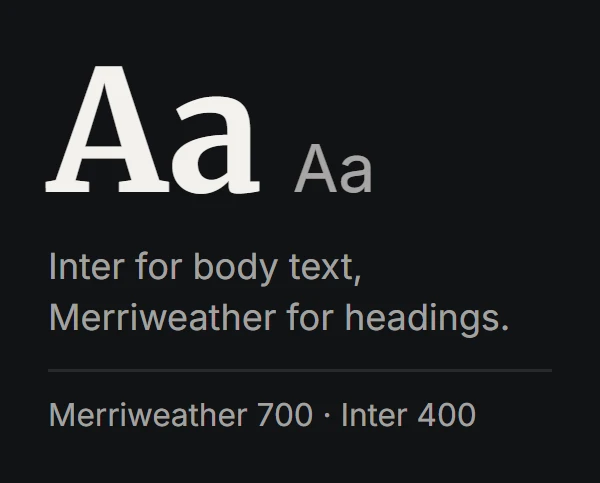
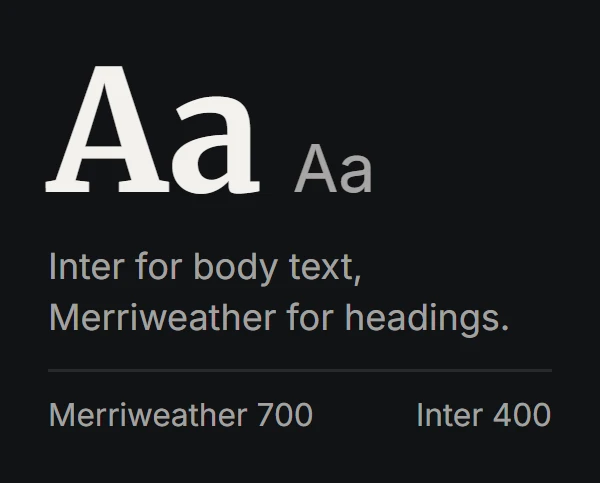
Pair cards sit on the tile grey in light, and the font names sit in two spans that never cut a name

Changed region(s): [[0.57, 0.8385, 0.93, 0.9006]]

diff --git a/src/data/authWall.generated.js b/src/data/authWall.generated.js
@@ -9,38 +9,38 @@ export const AUTH_WALL_GENERATED = {
     "f-merriweather-inter-dark.webp": {
       "width": 600,
       "height": 483,
-      "bytes": 17612,
[1 lines of base64/hex data omitted]
+      "bytes": 17582,
[1 lines of base64/hex data omitted]
     },
     "f-merriweather-inter-light.webp": {
       "width": 600,
       "height": 483,
-      "bytes": 17572,
[1 lines of base64/hex data omitted]
+      "bytes": 17032,
[1 lines of base64/hex data omitted]
     },
     "f-playfair-roboto-dark.webp": {
       "width": 600,
       "height": 483,
-      "bytes": 17750,
[1 lines of base64/hex data omitted]
+      "bytes": 17974,
[1 lines of base64/hex data omitted]
     },
     "f-playfair-roboto-light.webp": {
       "width": 600,
       "height": 483,
-      "bytes": 18074,
[1 lines of base64/hex data omitted]
+      "bytes": 17626,
[1 lines of base64/hex data omitted]
     },
     "f-space-grotesk-hepta-slab-dark.webp": {
       "width": 600,
-      "height": 534,
-      "bytes": 21700,
[1 lines of base64/hex data omitted]
+      "height": 582,
+      "bytes": 22806,
[1 lines of base64/hex data omitted]
     },
     "f-space-grotesk-hepta-slab-light.webp": {
       "width": 600,
-      "height": 534,
-      "bytes": 21736,
[1 lines of base64/hex data omitted]
+      "height": 582,
+      "bytes": 22040,
[1 lines of base64/hex data omitted]
     },
     "g-ocean-deep-guide.webp": {
       "width": 600,
@@ -512,7 +512,9 @@ export const AUTH_WALL_GENERATED = {
         "h": 161,
         "scrollH": 161,
         "lineH": 34.78125,
-        "ellipsis": false
+        "infoPx": 10.5,
+        "infoWraps": false,
+        "infoOverflows": false
       },
       "at217": 11.39
     },
@@ -525,10 +527,12 @@ export const AUTH_WALL_GENERATED = {
       "artCssWidth": 200,
       "fit": {
         "w": 200,
-        "h": 178,
-        "scrollH": 178,
+        "h": 194,
+        "scrollH": 194,
         "lineH": 52.171875,
-        "ellipsis": true
+        "infoPx": 10,
+        "infoWraps": true,
+        "infoOverflows": false
       },
       "at217": 11.39
     },
@@ -551,7 +555,9 @@ export const AUTH_WALL_GENERATED = {
         "h": 161,
         "scrollH": 161,
         "lineH": 34.78125,
-        "ellipsis": false
+        "infoPx": 10.5,
+        "infoWraps": false,
+        "infoOverflows": false
       },
       "at217": 11.39
     },

diff --git a/tests/unit/auth-wall.test.js b/tests/unit/auth-wall.test.js
@@ -35,9 +35,9 @@ test('every WebP is the one the generator recorded, at the recorded size', () =>
     assert.equal(buf.subarray(0, 4).toString(), 'RIFF', `${file} is a RIFF container`)
     assert.equal(buf.subarray(8, 12).toString(), 'WEBP', `${file} is WebP`)
     // Palette and guide crops are 600x270. A pair card is 200 CSS px wide and as tall as its
-    // content (140 to 180 CSS px), shot at 3x.
+    // content (140 to 200 CSS px, taller when the font names take two lines), shot at 3x.
     const pairCard = /-(light|dark)\.webp$/.test(file)
-    const heightOk = pairCard ? rec.height % 3 === 0 && rec.height >= 420 && rec.height <= 540 : rec.height === 270
+    const heightOk = pairCard ? rec.height % 3 === 0 && rec.height >= 420 && rec.height <= 600 : rec.height === 270
     assert.ok(rec.width === 600 && heightOk, `${file} is 600 wide at the stored aspect`)
   }
   const total = Object.values(G.assets).reduce((n, a) => n + a.bytes, 0)
